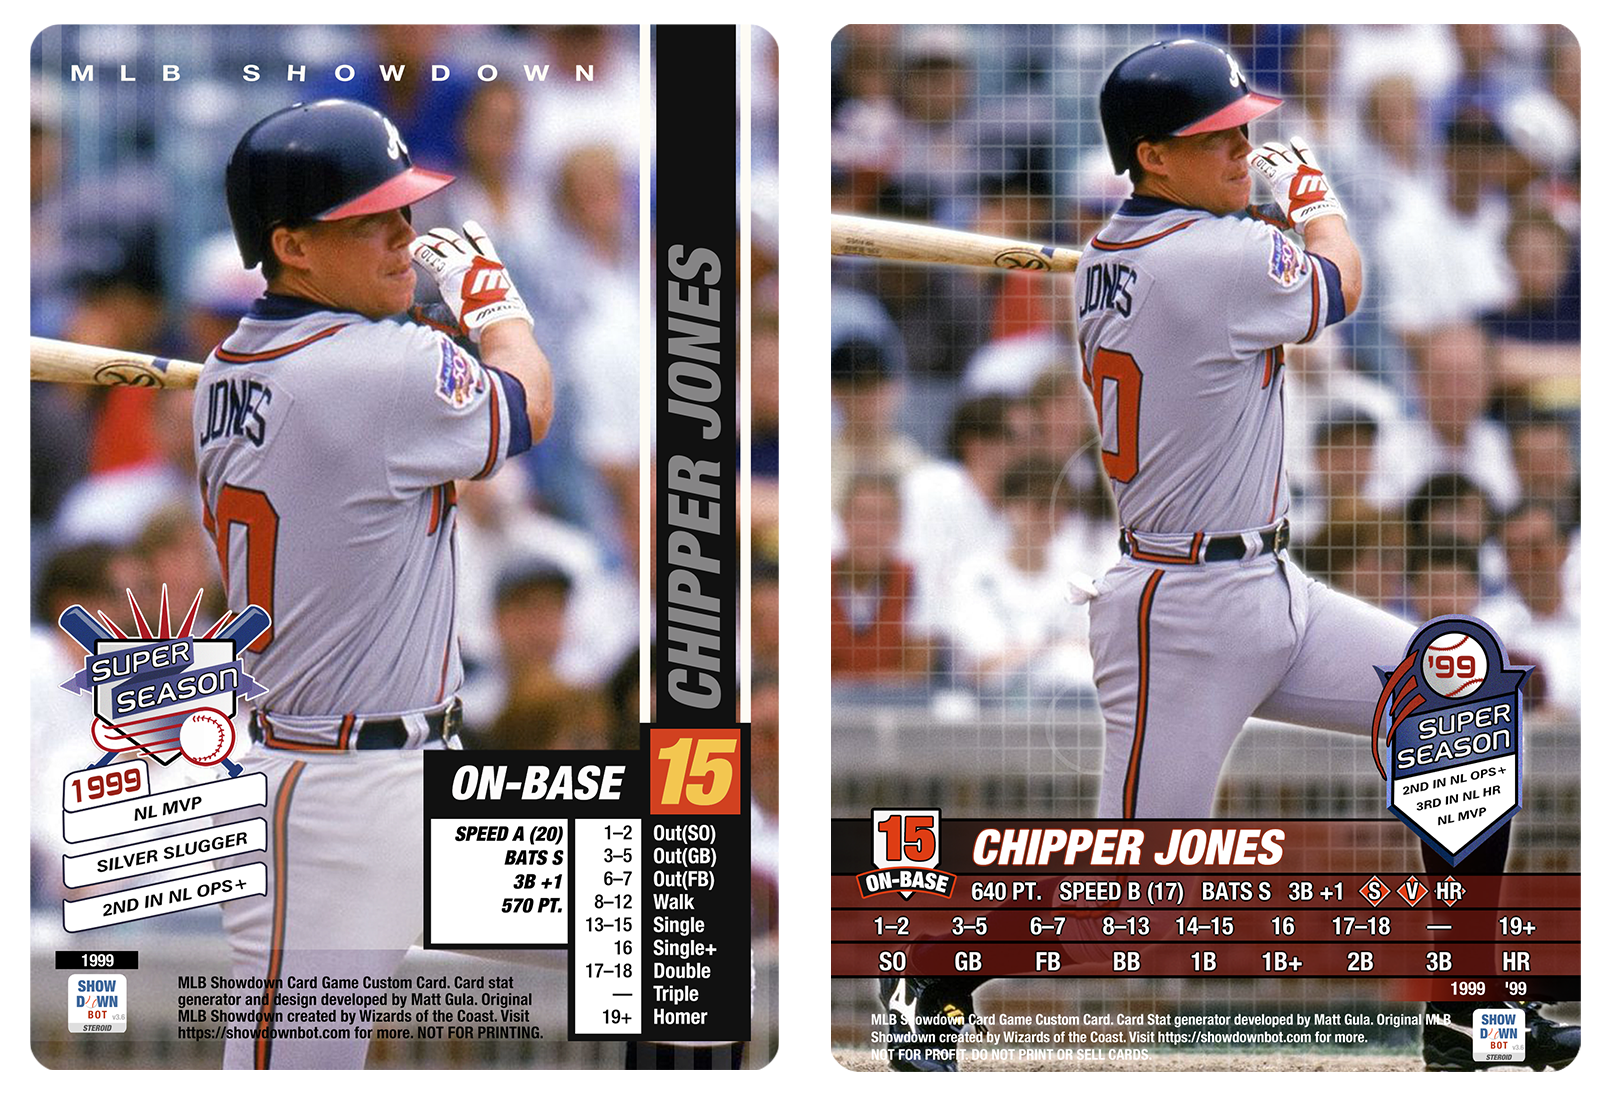
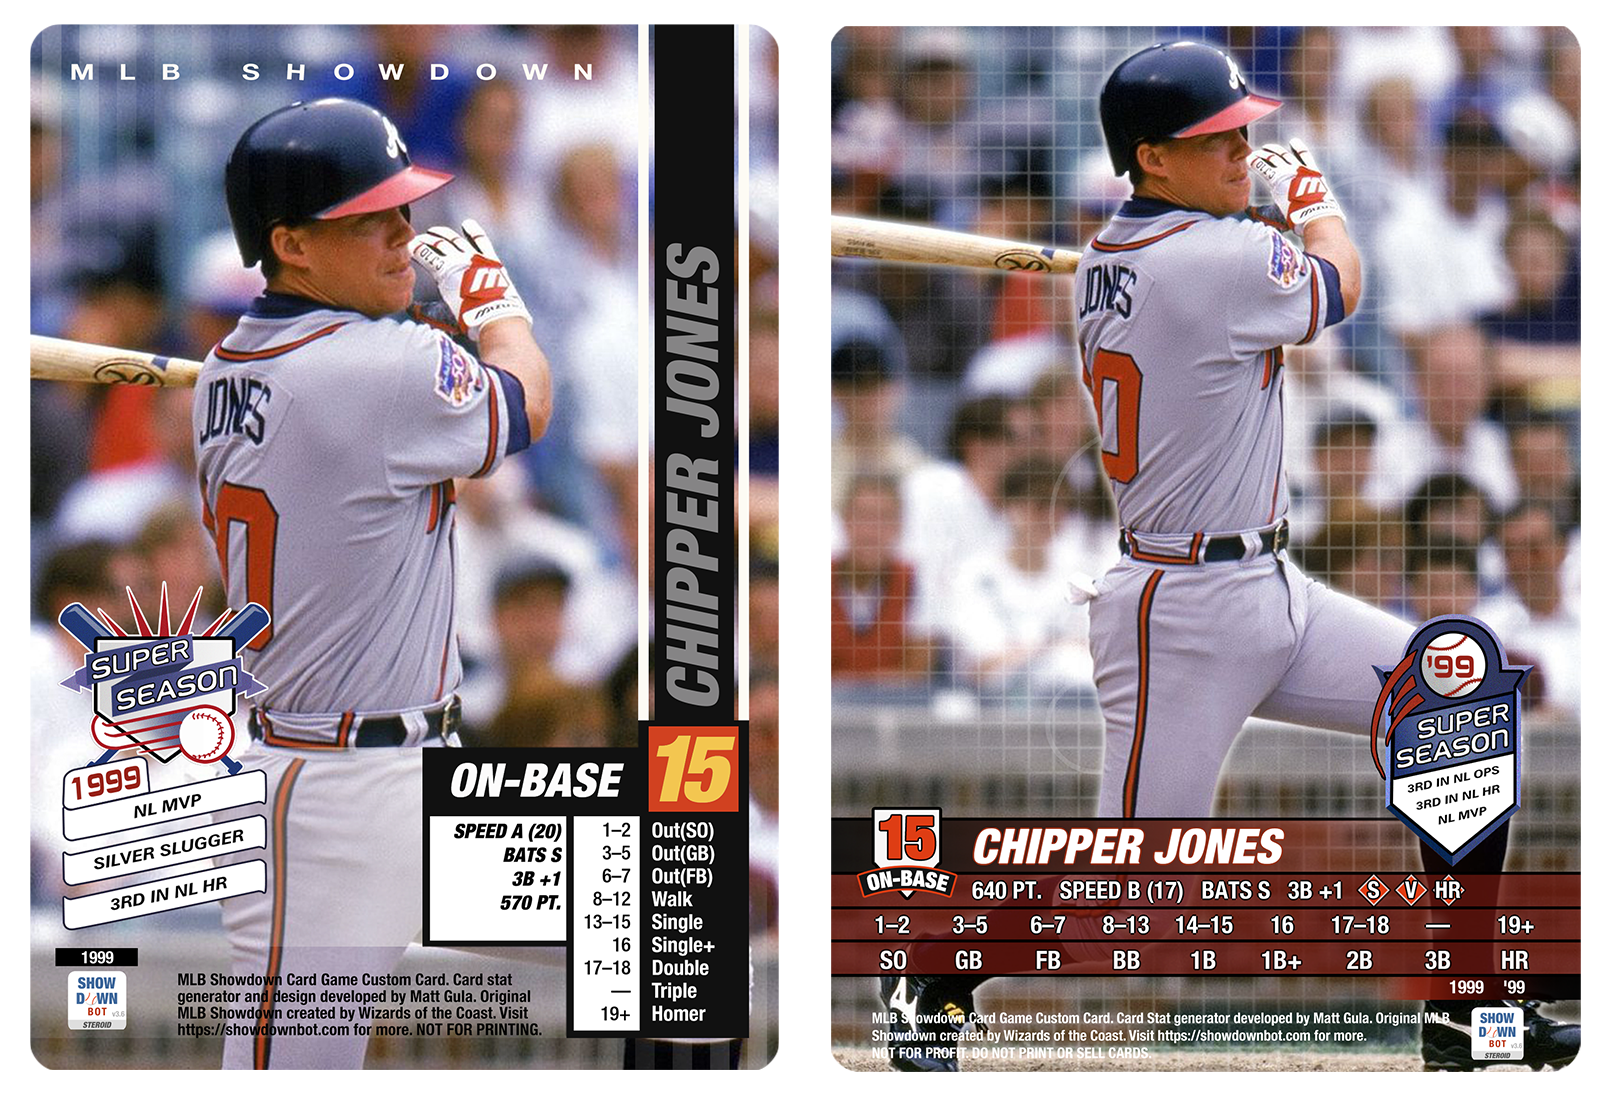
Update ReadMe

diff --git a/mlb_showdown_bot/showdown_constants.py b/mlb_showdown_bot/showdown_constants.py
@@ -16901,7 +16901,7 @@ class Accolade(Enum):
     @property
     def priority_multiplier(self) -> float:
         match self.name:
-            case "OPS_PLUS" | "FIP": return 3.0
+            case "OPS_PLUS" | "FIP" | "ERA_PLUS": return 3.0
             case "MVP" | "CY_YOUNG": return 0.5
             case _: return 1.0
     

diff --git a/README.md b/README.md
@@ -541,7 +541,7 @@ HITTERS
 12. RUNS
 13. TOTAL BASES
 14. WAR
-15. XBH
+15. OPS PLUS
 
 PITCHERS
 
@@ -551,58 +551,66 @@ PITCHERS
 4. WHIP
 5. WINS
 6. IP
-7. OPS PLUS
-8. ERA PLUS
-9. WAR
-10. SHUTOUTS
-11. CG
-12. W/L%
-13. SO/9
-14. FIP
+7. ERA PLUS
+8. WAR
+9. SHUTOUTS
+10. CG
+11. W/L%
+12. SO/9
+13. FIP
 
 **4. STATS**: If the player does not have enough awards and accolades, their stats will be used. See below for ordering and minimum requirements.
 
-HITTERS
+Some stats include a historical cutoff, meaning if the player's stat is greater or equal to that number it will be included.
 
-1. HR (min 30)
-2. RBI (min 100)
-3. HITS (min 175)
-4. BA (min .300)
-5. OBP (min .400)
-6. SLG (min .550)
-7. dWAR (min 2.5)
-8. OPS+ (no min req)
-9. bWAR (no min req)
+**HITTERS**
 
-PITCHERS
+Stat | Season Min. | Season Historical | Career Historical
+---  | -------     | -------------     | ----------------- 
+HR   | 30          |      60           |   500 
+RBI  | 100         |      -            |    -
+HITS | 175         |     240           |   3000
+BA   | .300        |     .390          |    -
+OBP  | .400        |      -            |    - 
+SLG  | .550        |      -            |    - 
+dWAR | 2.5         |      -            |    -
+OPS+ | -           |      -            |    -
+bWAR | -           |      -            |    -
 
-1. WINS (min 14)
-2. SAVES (min 20)
-3. ERA (no min req)
-4. WHIP (no min req)
-5. bWAR (no min req)
+
+**PITCHERS**
+
+
+Stat   | Season Min. | Season Historical | Career Historical
+---    | -------     | -------------     | ----------------- 
+WINS   | 14          |     -             |    - 
+SAVES  | 20          |     -             |    -
+ERA    | -           |     -             |    -
+WHIP   | -           |     -             |    -
+bWAR   | -           |     -             |    - 
+
 
 Here is an example of how the Bot ranks accolades for 1999 Chipper Jones:
 
 ![Image](./static/interface/SuperSeasonAccolades.png)
 
-Rank | 2000-2002 Sets | 2003-2005 Sets
---- | --- | --- 
-1  | NL MVP | 2ND IN NL OPS+ 
-2  | SILVER SLUGGER | 3RD IN NL HR 
-3  | 2ND IN NL OPS+ | 3RD IN NL OPS 
-4  | 3RD IN NL HR | 3RD IN NL WALKS 
-5  | 3RD IN NL OPS | NL MVP 
-6  | 3RD IN NL WALKS | 4TH IN NL OBP 
-7  | 4TH IN NL OBP | 4TH IN NL SLG 
-8  | 4TH IN NL SLG | 4TH IN NL TOTAL BASES 
-9  | 4TH IN NL TOTAL BASES | 5TH IN NL WAR 
-10 | 5TH IN NL WAR |  7TH IN NL 2B 
-11 | 7TH IN NL 2B |  7TH IN NL RUNS 
-12 | 7TH IN NL RUNS |  SILVER SLUGGER 
-13 | 10TH IN NL BA |  10TH IN NL BA 
-14 | 110 RBI |  110 RBI 
-15 | 181 HITS |  181 HITS 
+Rank | 2000-2002 Sets        | 2003-2005 Sets
+---  | ----------------------| --------------
+1    | NL MVP                | 3RD IN NL HR
+2    | SILVER SLUGGER        | 3RD IN NL OPS
+3    | 3RD IN NL HR          | 3RD IN NL WALKS
+4    | 3RD IN NL OPS         | NL MVP
+5    | 3RD IN NL WALKS       | 4TH IN NL OBP
+6    | 4TH IN NL OBP         | 4TH IN NL SLG
+7    | 4TH IN NL SLG         | 4TH IN NL TOTAL BASES
+8    | 4TH IN NL TOTAL BASES | 5TH IN NL WAR
+9    | 5TH IN NL WAR         | 2ND IN NL OPS+
+10   | 2ND IN NL OPS+        |  7TH IN NL 2B 
+11   | 7TH IN NL 2B          |  7TH IN NL RUNS 
+12   | 7TH IN NL RUNS        |  SILVER SLUGGER 
+13   | 10TH IN NL BA         |  10TH IN NL BA 
+14   | 110 RBI               |  110 RBI 
+15   | 181 HITS              |  181 HITS 
 
 Note that in the final version for the 2004 set, _NL MVP_ is shown despite it being ranked 5th. This is because the prior accolades would have been cut-off in the image!
 
